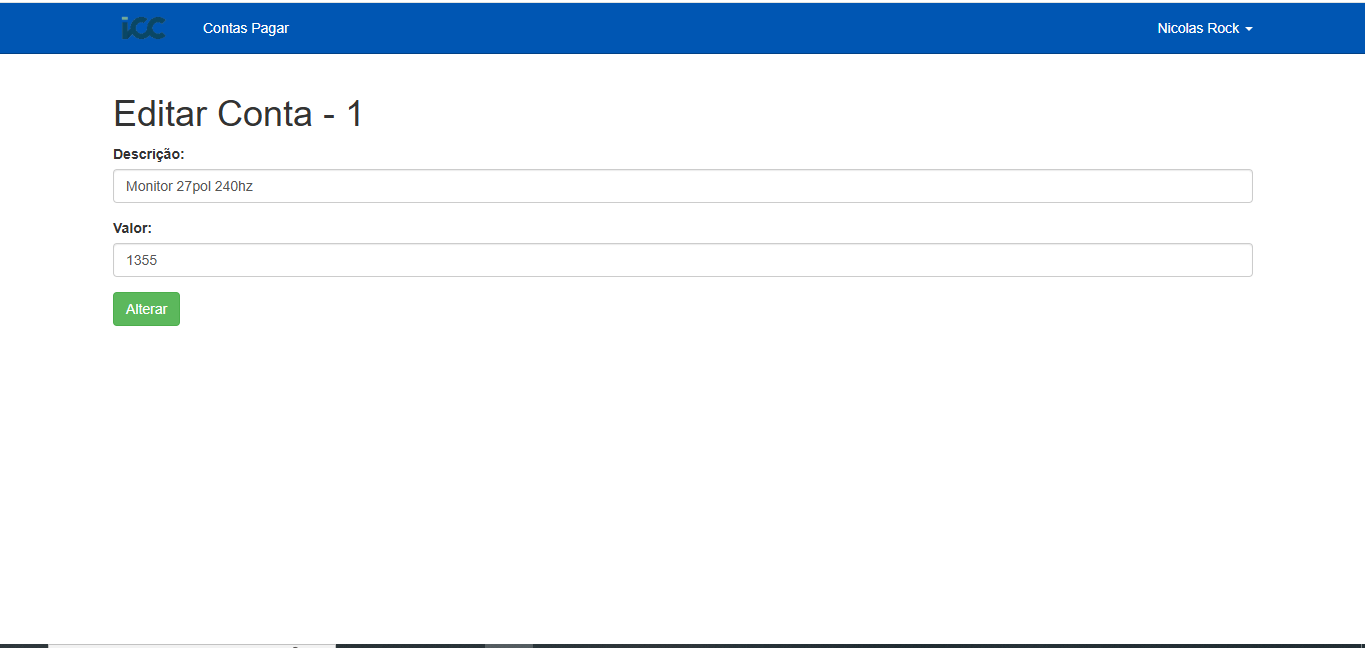
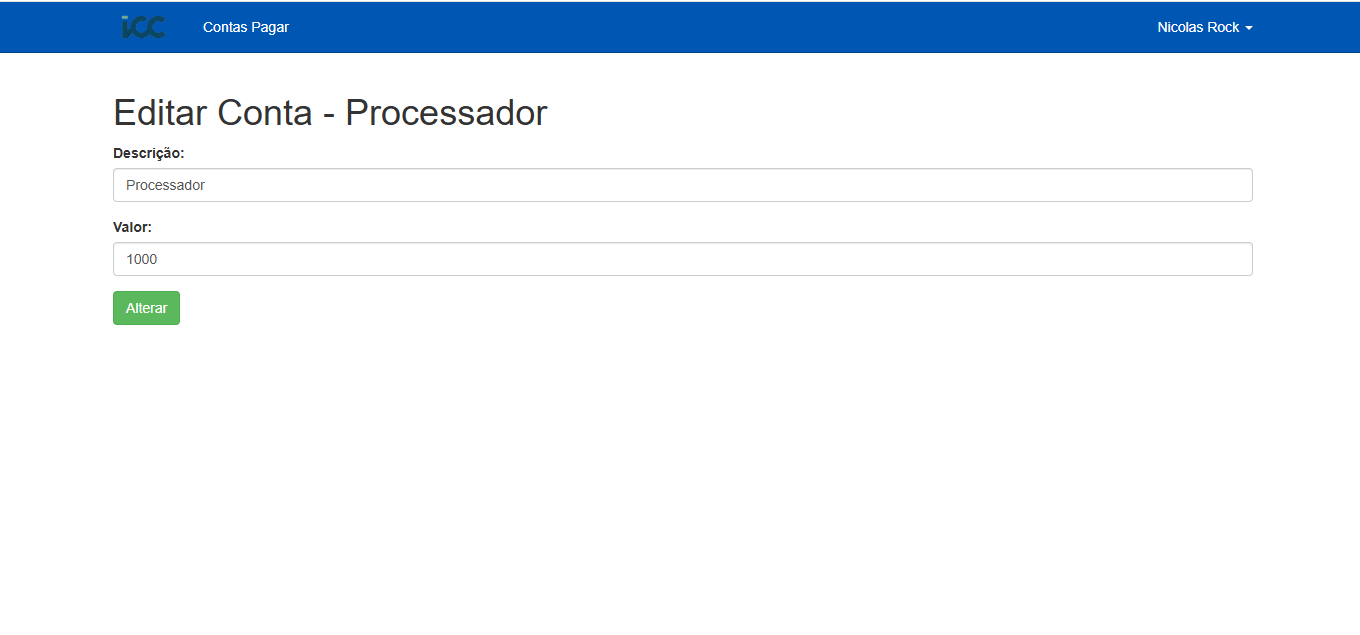
algumas alterações na pagina de editar materias e algumas imgs

Changed region(s): [[0.0618, 0.1496, 0.9265, 0.5386], [0.0, 0.0, 1.0, 0.0598], [0.0, 0.9874, 1.0, 1.0]]

diff --git a/resources/views/editar.blade.php b/resources/views/editar.blade.php
@@ -2,8 +2,8 @@
 @section('title', 'Listagem de Contas')
 
 @section('content')
-<h1>Editar Conta - {{$contas_pagar->id}}</h1>
-<form action="{{ action('ContasPagarController@update', $contas_pagar->id) }}" method="POST">
+<h1>Editar Conta - {{$contas_pagar->descricao}}</h1>
+<form action="{{ action('ContasPagarController@update', $contas_pagar->descricao) }}" method="POST">
     <input type="hidden" name="_token" value="{{ csrf_token() }}">
     <input type="hidden" name="update" value="update">
 

diff --git a/resources/views/listar.blade.php b/resources/views/listar.blade.php
@@ -10,7 +10,7 @@
 	}	
 </script>
 
-<h1>Lista de Contas Pagar</h1>
+<h1>Materias do Estoque</h1>
 
 @if(old('insert'))
 	<div class="alert alert-success">

diff --git a/readme.md b/readme.md
@@ -44,7 +44,7 @@ Tela de Logado
 
 Tela de Materiais
 
-![alt text](public/img/imgSistem/contas.png)
+![alt text](public/img/imgSistem/estoque.png)
 
 Tela de Cadastrar Materiais
 
@@ -55,5 +55,5 @@ Tela de Editar Materiais
 
 ![alt text](public/img/imgSistem/editar.png)
 
-Conclusão
+Conclusão</br>
 Este é um sistema simples, mas eficaz, para o gerenciamento de materiais. Ele pode ser facilmente expandido com mais funcionalidades, como autenticação via redes sociais, relatórios de uso de materiais, entre outras melhorias.
